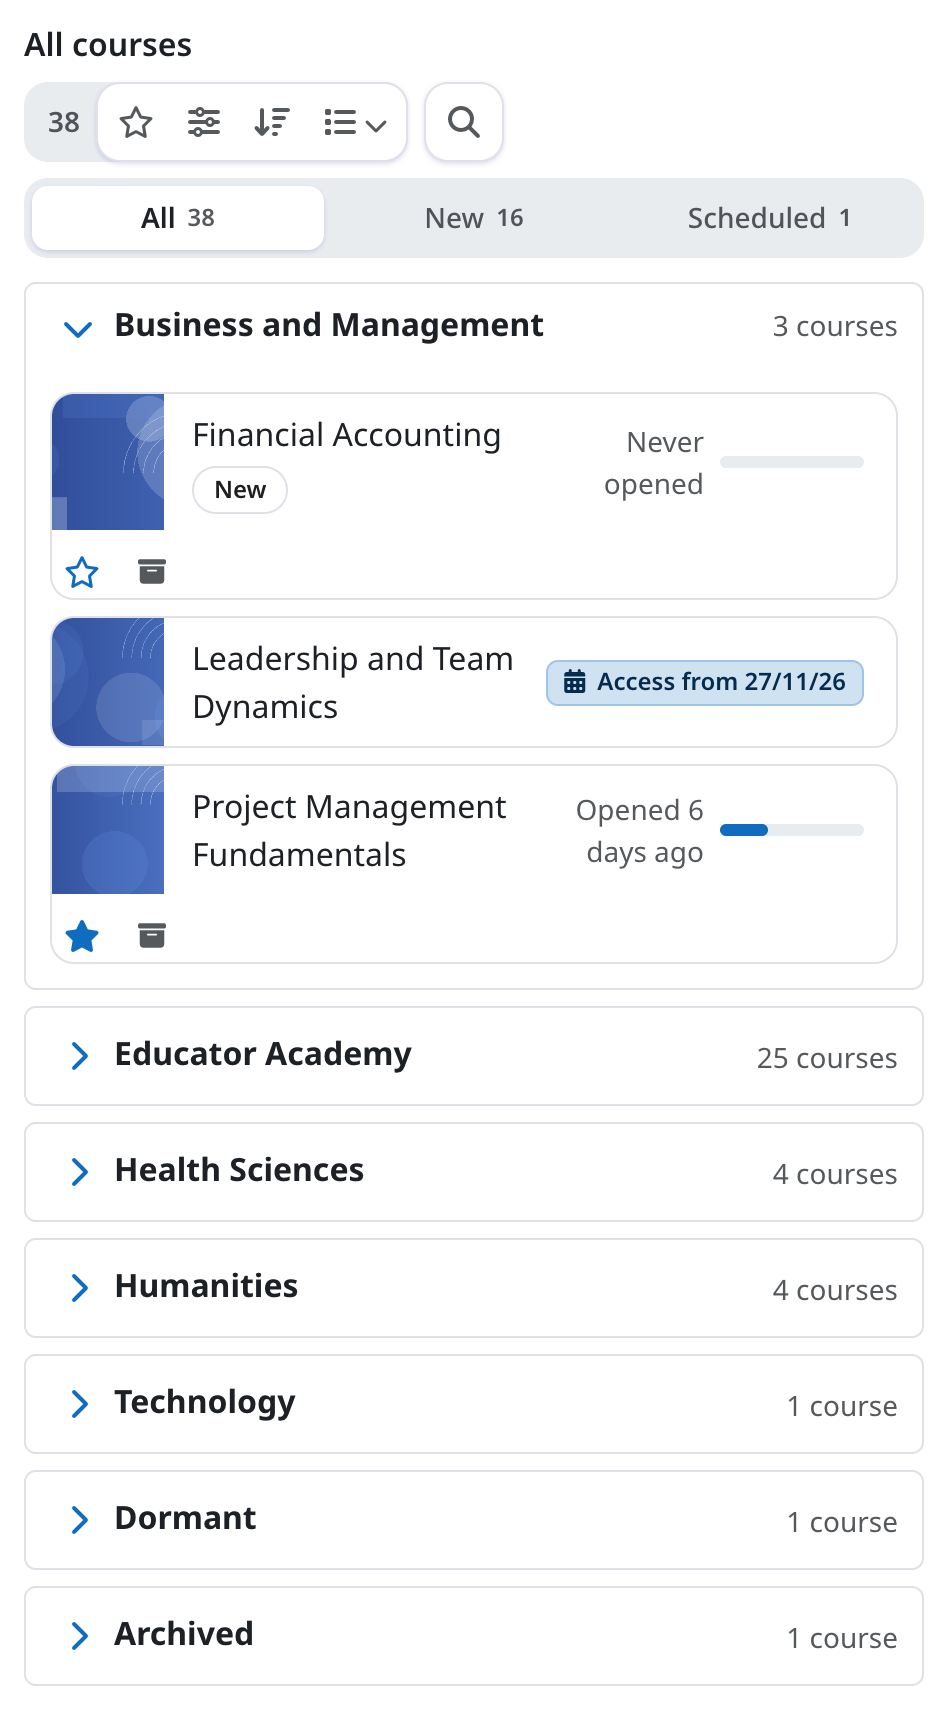
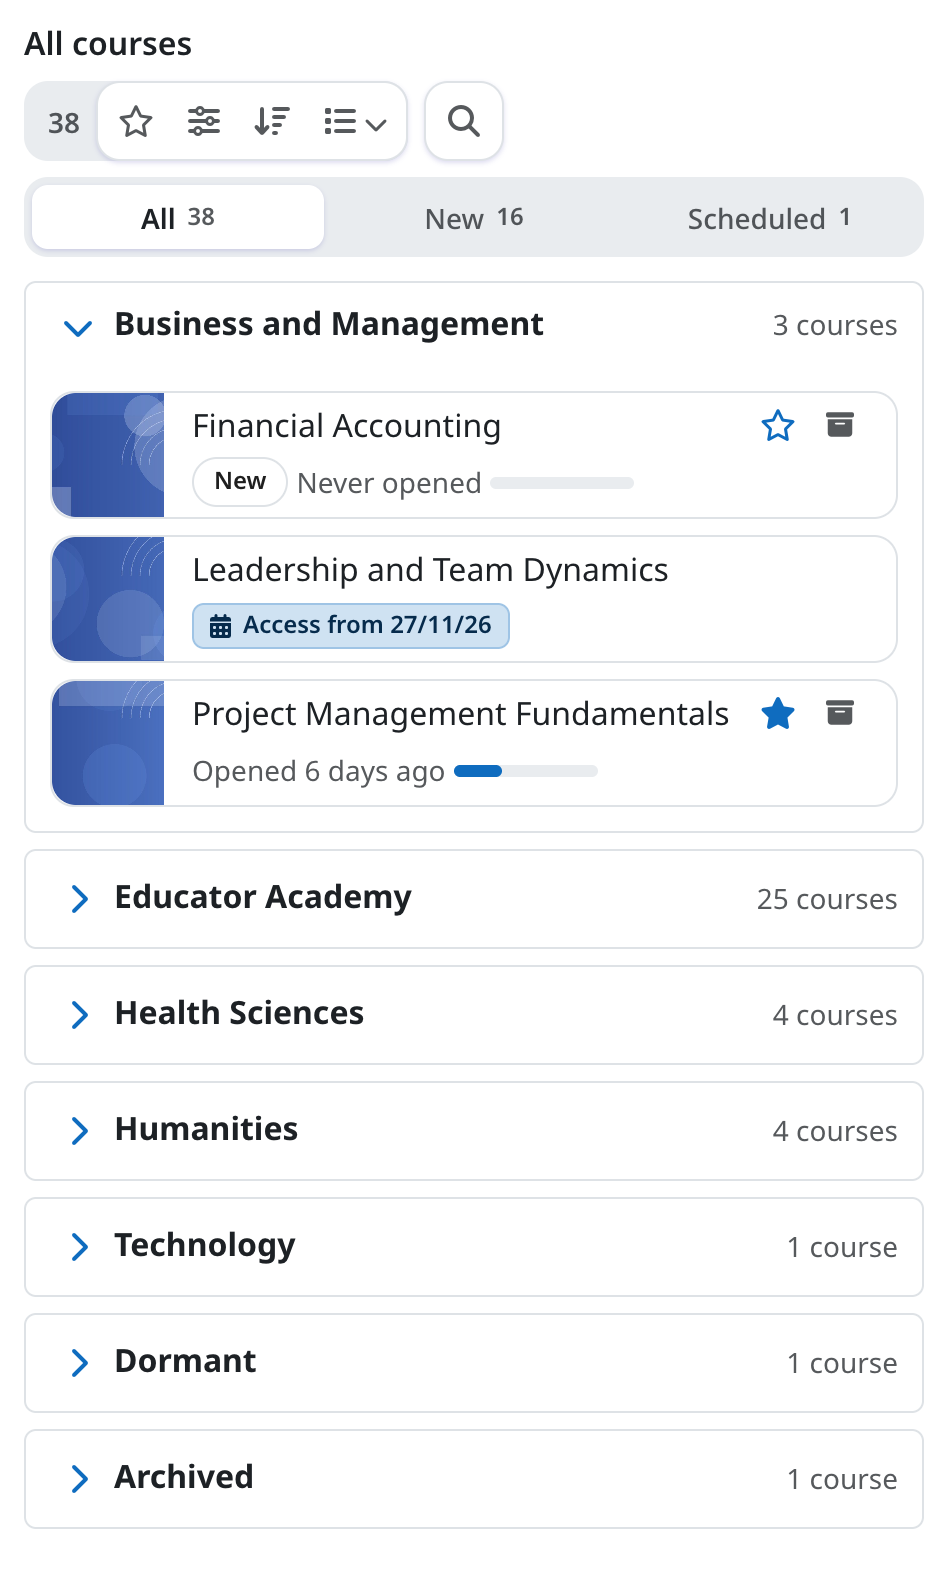
Docs: the list view's screenshots show the two-line rows [skip ci]
Seven pictures of tier 3's list retaken on the demo site after ADR-026, and the four
captions that describe the rows.

diff --git a/README.md b/README.md
@@ -150,7 +150,7 @@ the cards always paint first.
 All courses and the Compass page
 --------------------------------
 
-![All courses on the Compass page: the filter bar on one row (the scope with its counts, the result count, the star, Filters, Organise and the list/cards menu, and the search icon), the category index with the open group's link tinted and Archived last, and the first group open as a list](docs/screenshots/explore.png)
+![All courses on the Compass page: the filter bar on one row (the scope with its counts, the result count, the star, Filters, Organise and the list/cards menu, and the search icon), the category index with the open group's link tinted and Archived last, and the first group open as a list of two-line rows (the name, with the star and the archive, then the chips, the state, the date and the progress bar)](docs/screenshots/explore.png)
 
 *All courses* opens from the ghost card or from a strip's "+N" link. The ghost is there whenever
 *All courses* has something tier 1 does not show, its *Hidden* and *Archived* groups included: a
@@ -199,13 +199,13 @@ scope on a line of its own under the controls, its choices sharing the width (a 
 drawer, a narrow column). There, while the search is open, its field takes the first line. The chips
 wrap to further lines rather than scrolling.
 
-![All courses on the Dashboard, a search and a filter in force: only All with its count of 3, the result count, the star, Filters with a badge of 1, Organise, View and the search icon; under it the chips instruction and Hybrid with Clear all, and the three courses left](docs/screenshots/explore-filtered.png)
+![All courses on the Dashboard, a search and a filter in force: only All with its count of 3, the result count, the star, Filters with a badge of 1, Organise, View and the search icon; under it the chips instruction and Hybrid with Clear all, and the three courses left as two-line rows](docs/screenshots/explore-filtered.png)
 
-![All courses on the Dashboard at 500 px, the narrow step: the result count, the star, Filters, Organise, View and the search icon on the first line, the scope on a line of its own after them](docs/screenshots/explore-narrow.png)
+![All courses on the Dashboard at 500 px, the narrow step: the result count, the star, Filters, Organise, View and the search icon on the first line, the scope on a line of its own after them, the group's rows two lines each](docs/screenshots/explore-narrow.png)
 
 At the narrow step the Filters panel opens as a bottom sheet:
 
-![All courses on a phone with Filters pressed: the panel as a bottom sheet with the Modality and Level values, Clear filters and Show 38](docs/screenshots/explore-phone.png)
+![All courses on a phone with Filters pressed: the panel as a bottom sheet with the Modality and Level values, Clear filters and Show 38, the list rows above it two lines each](docs/screenshots/explore-phone.png)
 
 **Pointing at a filter previews it.** A mouse or a pen on a scope, the star, a panel value or a
 suggestion, or the keyboard's focus on one, rings the courses on screen that it would keep,
